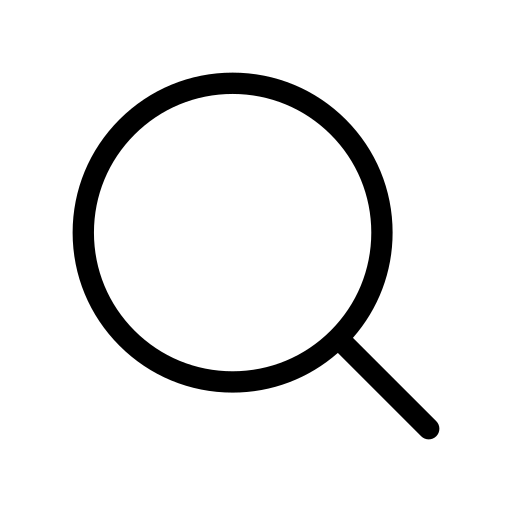
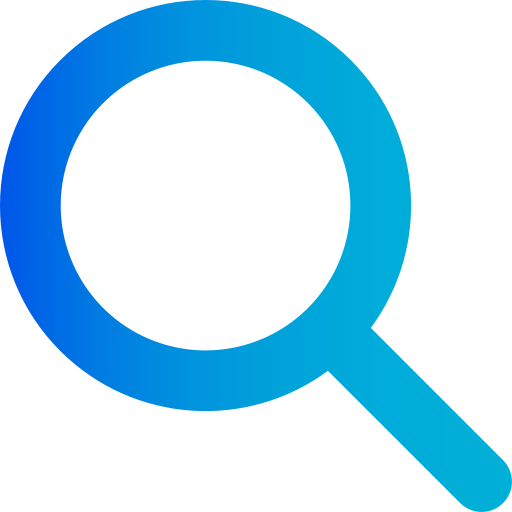
Changed color app pallete

diff --git a/Objective.Maui_App/Views/Templates/MainHeader.xaml b/Objective.Maui_App/Views/Templates/MainHeader.xaml
@@ -9,24 +9,24 @@
         <!--Header Section-->
         <Grid
             ColumnDefinitions="Auto, *, Auto">
-            <Grid
-                Style="{StaticResource HeaderLayoutStyle}">
+            <Frame
+                Grid.Column="0"
+                Style="{StaticResource FrameLayoutStyle}">
                 <ImageButton
-                    Source="avatar.png"
-                    Style="{StaticResource ImageButtonStyle}"/>
-            </Grid>
+                        Source="user.png"
+                        Style="{StaticResource ImageButtonStyle}"/>
+            </Frame>
 
             <Label
                 Grid.Column="1"
                 Text="OBJECTIVE"
                 Style="{StaticResource LogoLabelStyle}"/>
-            <Grid
+
+            <ImageButton
                 Grid.Column="2"
-                Style="{StaticResource HeaderLayoutStyle}">
-                <ImageButton
-                    Source="search.png"
-                    Style="{StaticResource ImageButtonStyle}"/>
-            </Grid>
+                Margin="10, 10"
+                Source="search.png"
+                Style="{StaticResource ImageButtonStyle}"/>
         </Grid>
         <!--Greeting Section-->
         <Label
@@ -39,15 +39,20 @@
     <!--Styling-->
     <ContentView.Resources>
         <ResourceDictionary>
-            <Style x:Key="HeaderLayoutStyle" TargetType="Grid">
+            <Style x:Key="FrameLayoutStyle" TargetType="Frame">
+                <Setter Property="Margin" Value="10, 10" />
+                <Setter Property="HeightRequest" Value="50" />
+                <Setter Property="WidthRequest" Value="50" />
+                <Setter Property="CornerRadius" Value="60" />
+                <Setter Property="HorizontalOptions" Value="Center" />
                 <Setter Property="VerticalOptions" Value="Center" />
-                <Setter Property="Margin" Value="10, 7" />
+                <Setter Property="BorderColor" Value="#1560bd" />
             </Style>
 
             <Style x:Key="ImageButtonStyle" TargetType="ImageButton">
                 <Setter Property="VerticalOptions" Value="Center" />
-                <Setter Property="HeightRequest" Value="40" />
-                <Setter Property="WidthRequest" Value="40" />
+                <Setter Property="HeightRequest" Value="49" />
+                <Setter Property="WidthRequest" Value="49" />
             </Style>
 
             <Style x:Key="LogoLabelStyle" TargetType="Label">
@@ -60,7 +65,7 @@
 
             <Style x:Key="SalutationLabelStyle" TargetType="Label">
                 <Setter Property="FontSize" Value="15" />
-                <Setter Property="Margin" Value="0, 15, 0, 30" />
+                <Setter Property="Margin" Value="0, 5, 0, 30" />
                 <Setter Property="FontAttributes" Value="Italic, Bold" />
                 <Setter Property="TextColor" Value="#002147" />
                 <Setter Property="HorizontalOptions" Value="Center" />

diff --git a/Objective.Maui_App/Views/Templates/ObjectiveListItem.xaml b/Objective.Maui_App/Views/Templates/ObjectiveListItem.xaml
@@ -11,7 +11,7 @@
                 <Setter Property="StrokeThickness" Value="2" />
                 <Setter Property="HeightRequest" Value="50" />
                 <Setter Property="Margin" Value="5" />
-                <Setter Property="Stroke" Value="DarkGrey" />
+                <Setter Property="Stroke" Value="#1560bd" />
             </Style>
 
             <Style x:Key="HeaderLayoutStyle" TargetType="Grid">
@@ -23,7 +23,7 @@
                 <Setter Property="FontSize" Value="13" />
                 <Setter Property="FontAttributes" Value="Bold" />
                 <Setter Property="FontFamily" Value="Georgia" />
-                <Setter Property="TextColor" Value="Black" />
+                <Setter Property="TextColor" Value="#002147" />
                 <Setter Property="HorizontalOptions" Value="Center" />
                 <Setter Property="VerticalOptions" Value="Center" />
                 <Setter Property="Margin" Value="0, 0, 10, 0" />

diff --git a/Objective.Maui_App/Views/Mobile/MainView.xaml b/Objective.Maui_App/Views/Mobile/MainView.xaml
@@ -24,7 +24,7 @@
             Grid.Row="1"
             ClassId="MidStack"
             Padding="0, 20, 0, 0"
-            BackgroundColor="LightGray">
+            BackgroundColor="WhiteSmoke">
 
             <Templates:ObjectiveListItem/>
             <Templates:ObjectiveListItem/>
